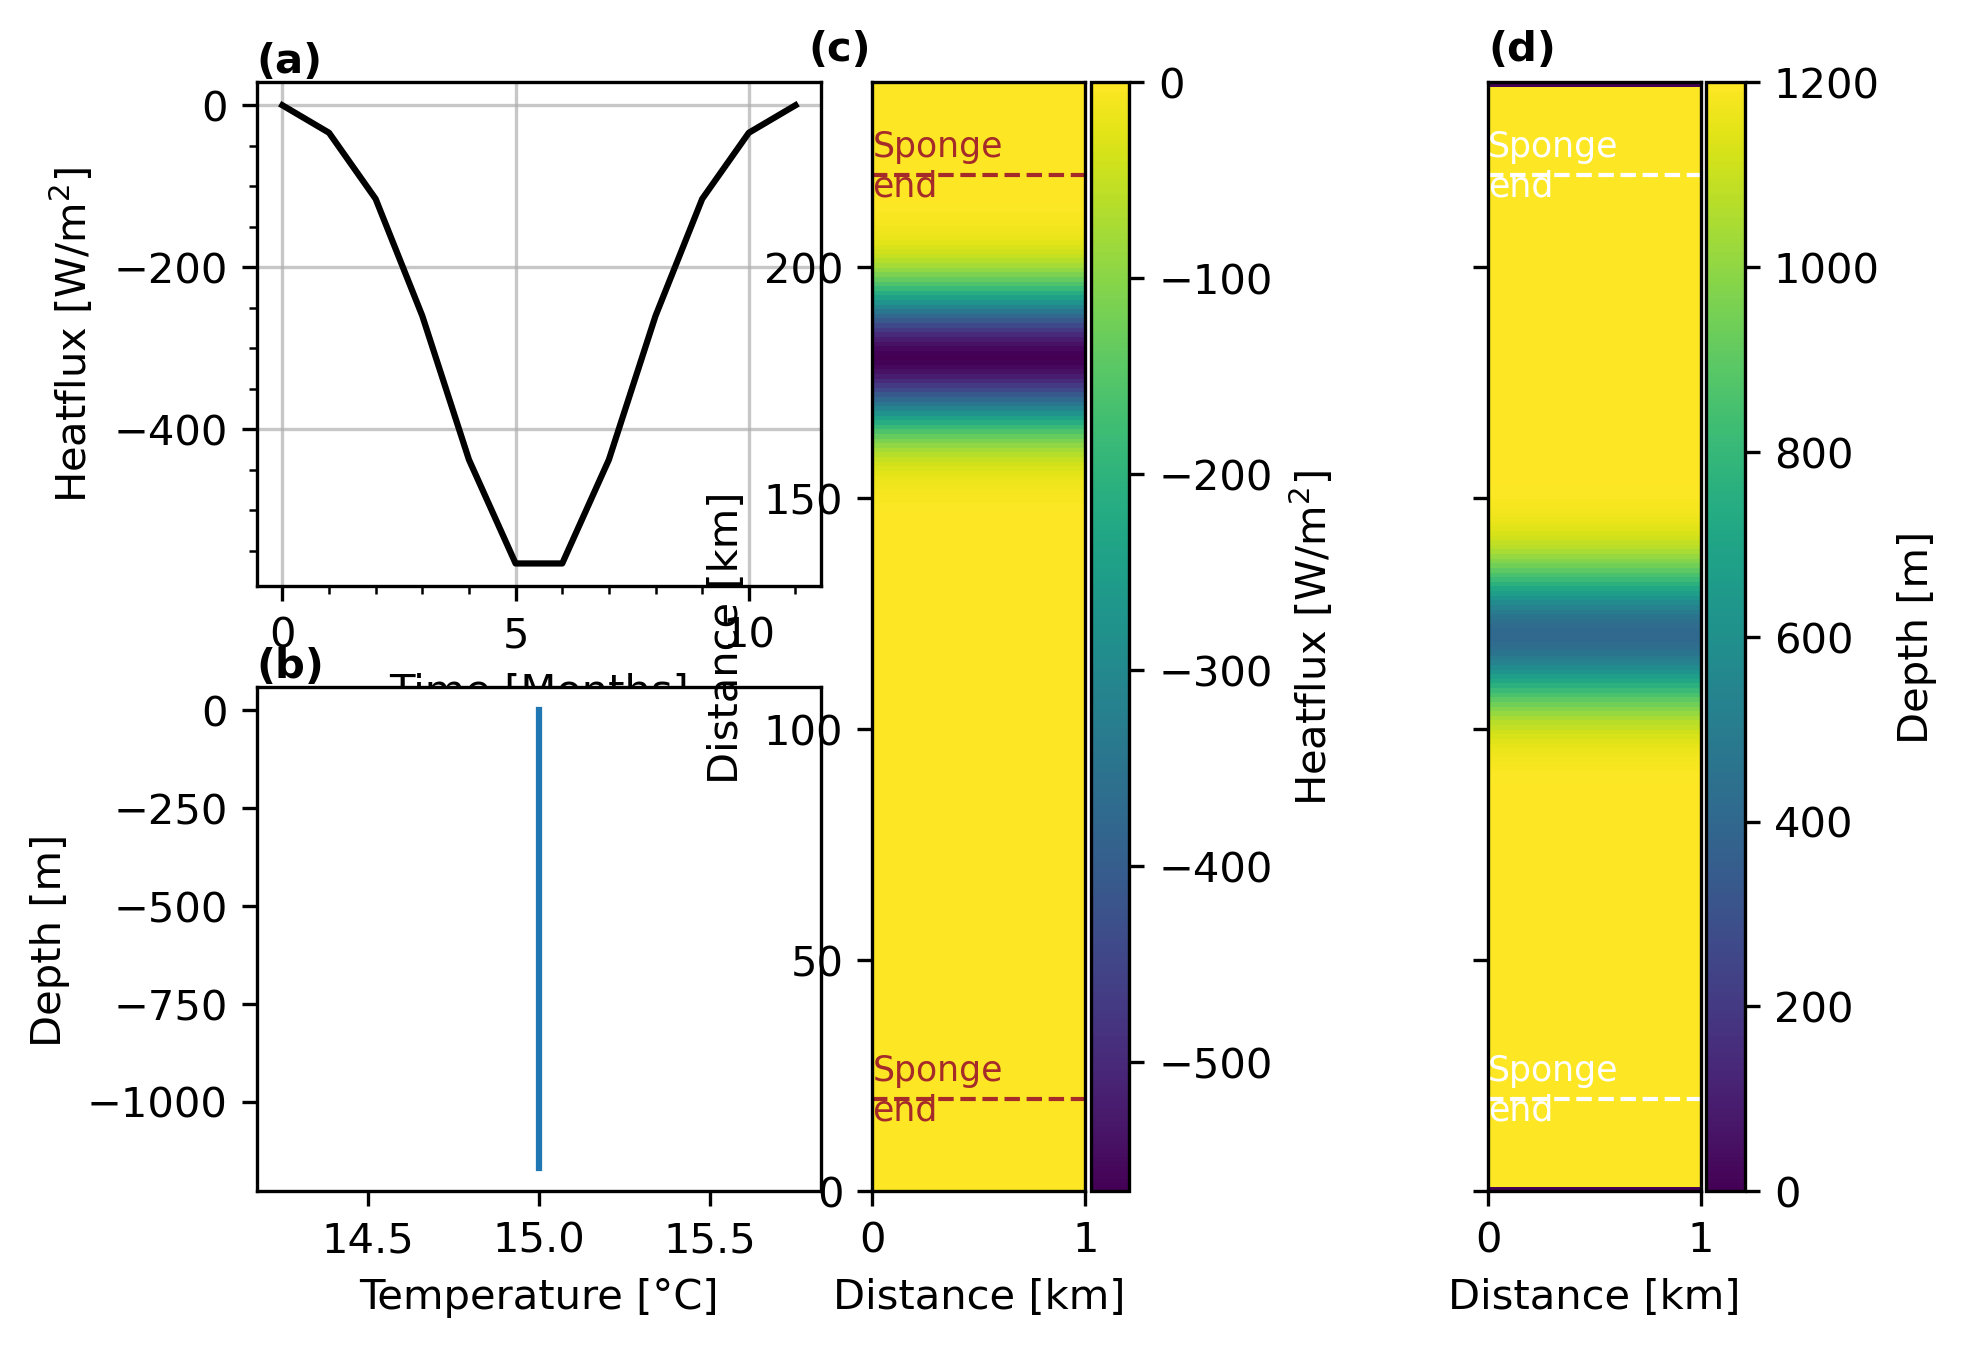
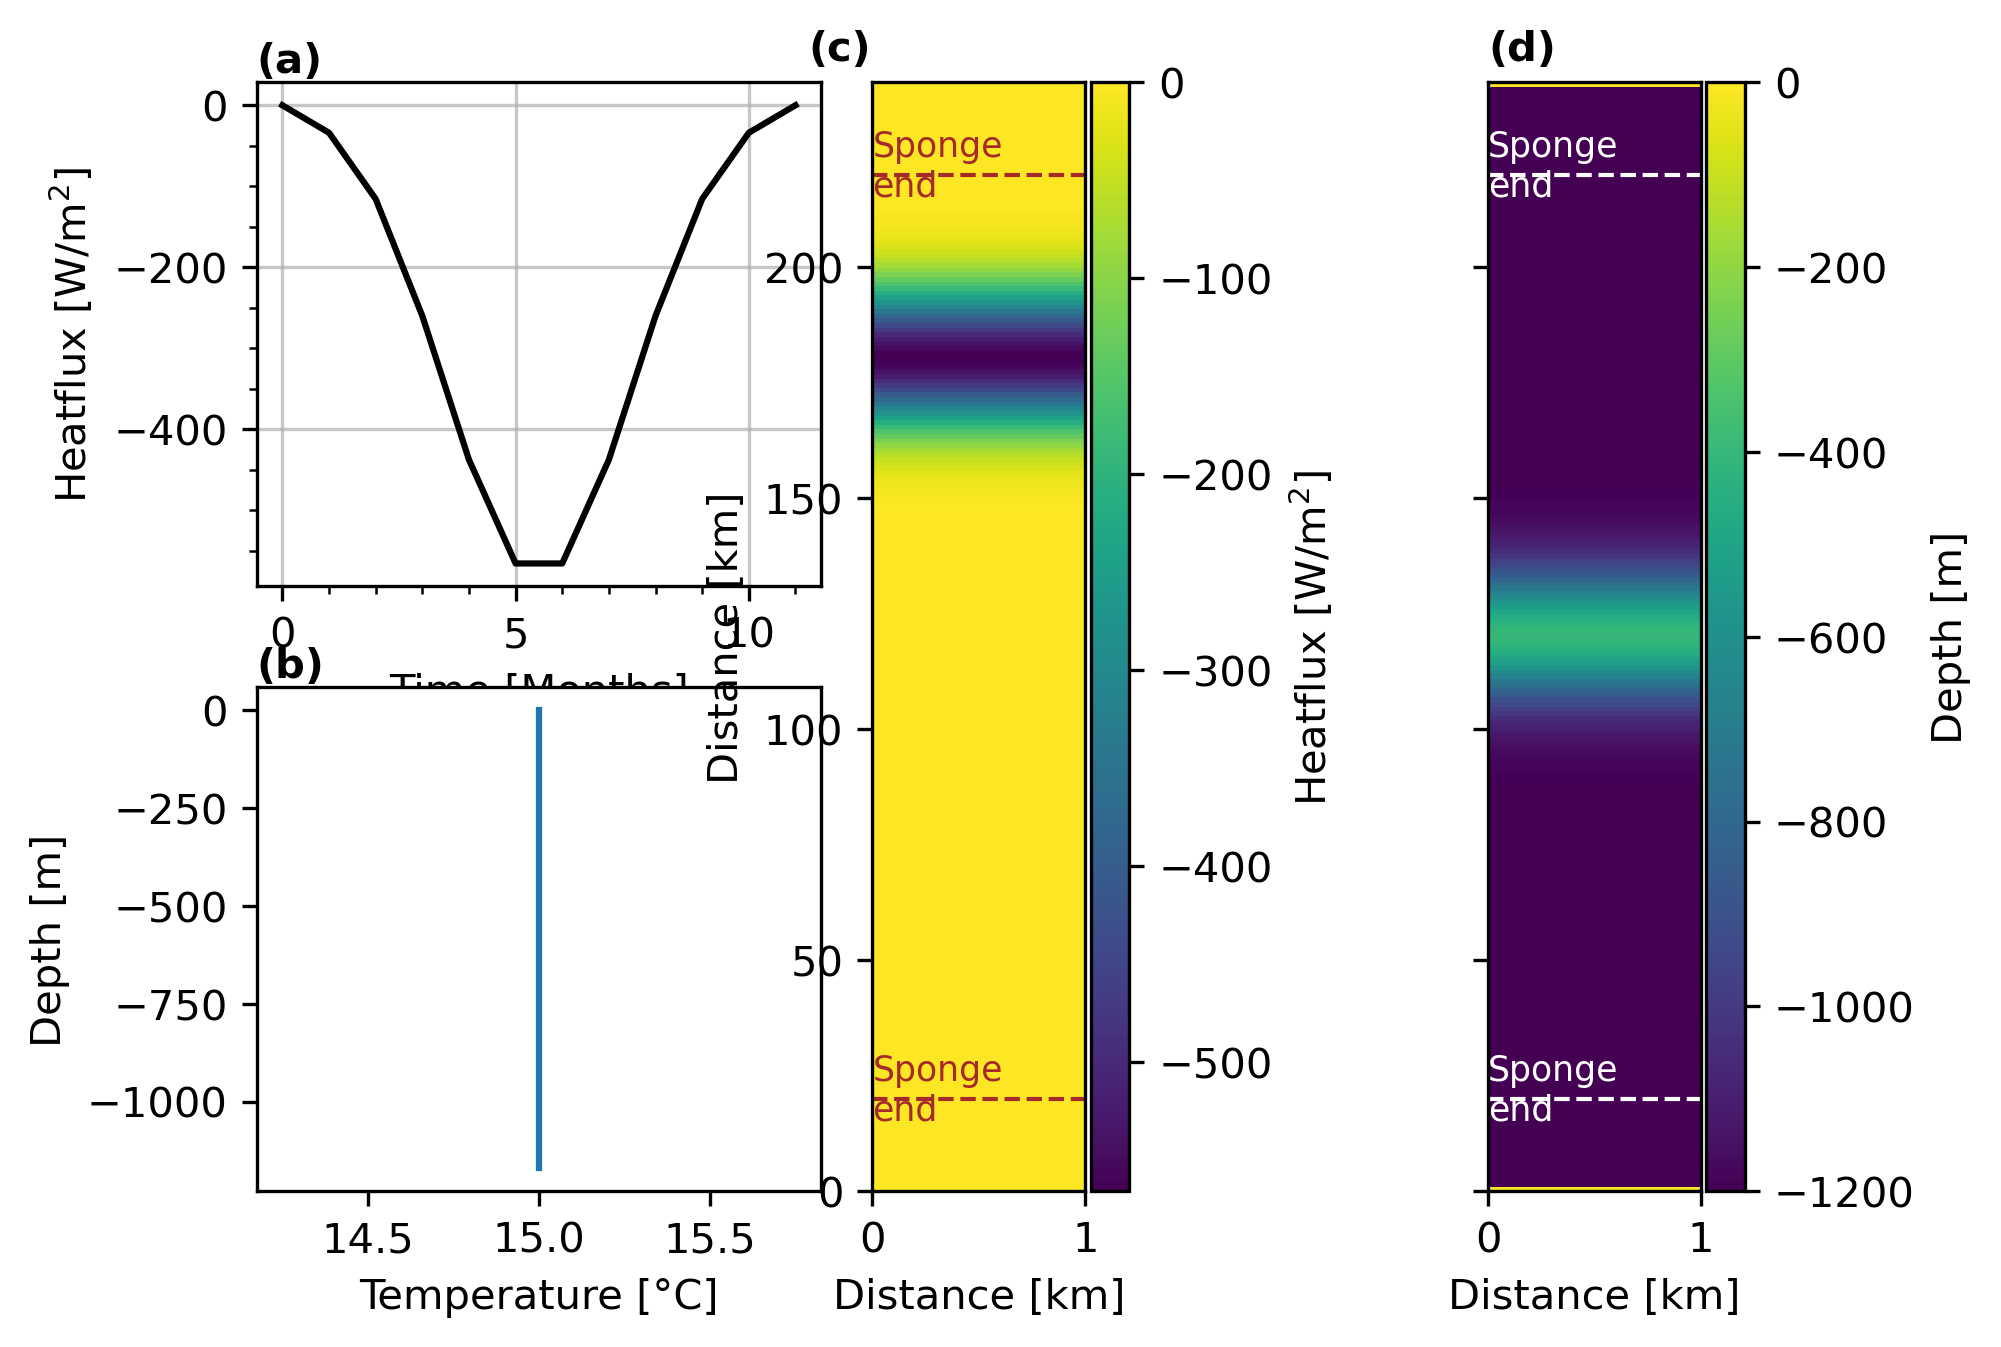
new input

diff --git a/2Dsill/run0/gendata.py b/2Dsill/run0/gendata.py
@@ -73,7 +73,7 @@ tempBo=15*np.ones((nx,nz,nt),dtype=dtype)
 salBo=np.zeros((nx,nz,nt),dtype=dtype)
 
 #Bathymetry definition
-dep=gaussian(np.arange(ny), ny/2, 10)*20000-Ho
+dep=-(gaussian(np.arange(ny), ny/2, 10)*20000-Ho)
 ho=np.tile(dep,(nx,1))
 ho[:,0]=0
 ho[:,-1]=0
